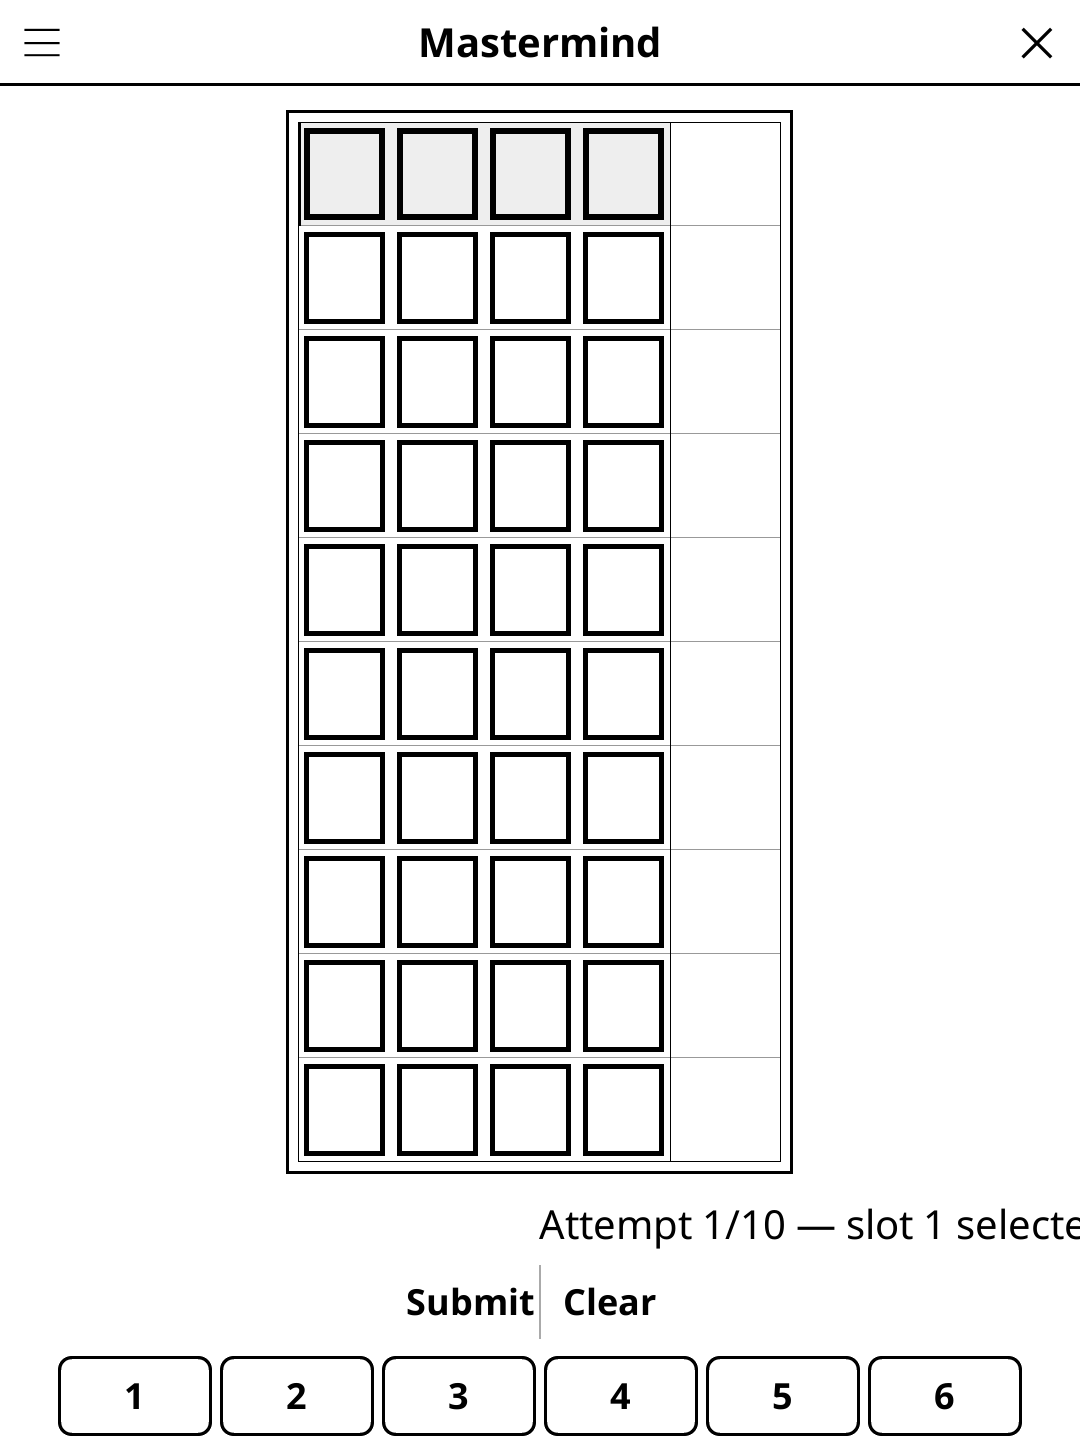
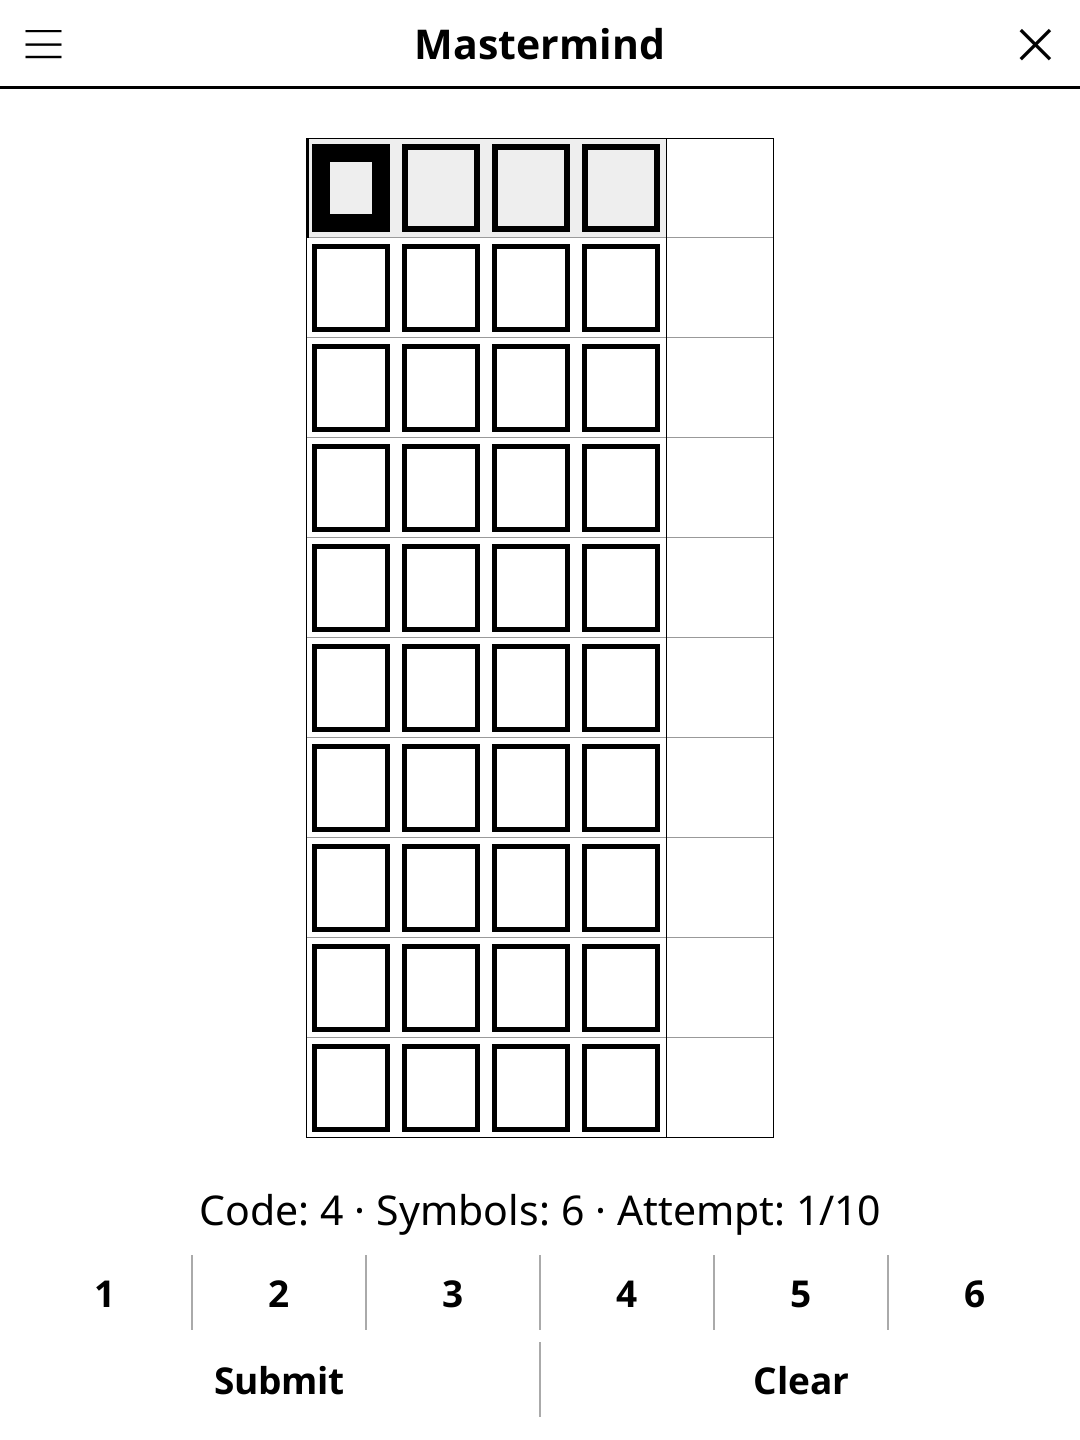
release: 1.2.0 -- redesigned screen, harmonised menu, New game at round end
Screen redesign (full-width action bar, unified pad, status line, larger
board), harmonised title-bar menu, and a "New game" button once the round
is over. See CHANGELOG.md.

diff --git a/CHANGELOG.md b/CHANGELOG.md
@@ -6,6 +6,32 @@ Reconstructed from this repository's git history: each release lists the
 feature and fix commits it carried. Version bumps, screenshot additions
 and CI syncs are left out.
 
+## [1.2.0] - 2026-10-30
+
+### Added
+- "New game" once the code is cracked or the rows run out: the action bar
+  shows it in place of Submit and Clear, so the next game no longer needs
+  the menu.
+- The rules now explain how to play: select a slot, tap a number, Submit.
+
+### Changed
+- Redesigned play screen, in line with the other games: a full-width action
+  bar, the unified number pad, and a larger board that fills the available
+  room (it is now sized to the width too, not just the height). The status
+  line reads "Code: 4 · Symbols: 6 · Attempt: n/m" and wraps in landscape
+  instead of being cut off.
+- The selected slot is shown on the board itself with a much heavier
+  outline, instead of being named in the status line.
+- The feedback next to each guess is written on two lines ("B:n" over
+  "W:n"), which reads much larger in the narrow feedback column.
+- New README screenshot.
+
+### Fixed
+- The digits in the slots and the feedback text were sized off the slot
+  width and then scaled again by the screen DPI, so they overflowed their
+  slots on high-DPI screens. Both are now fitted to the room they have and
+  centred.
+
 ## [1.1.14] - 2026-10-07
 
 ### Fixed
